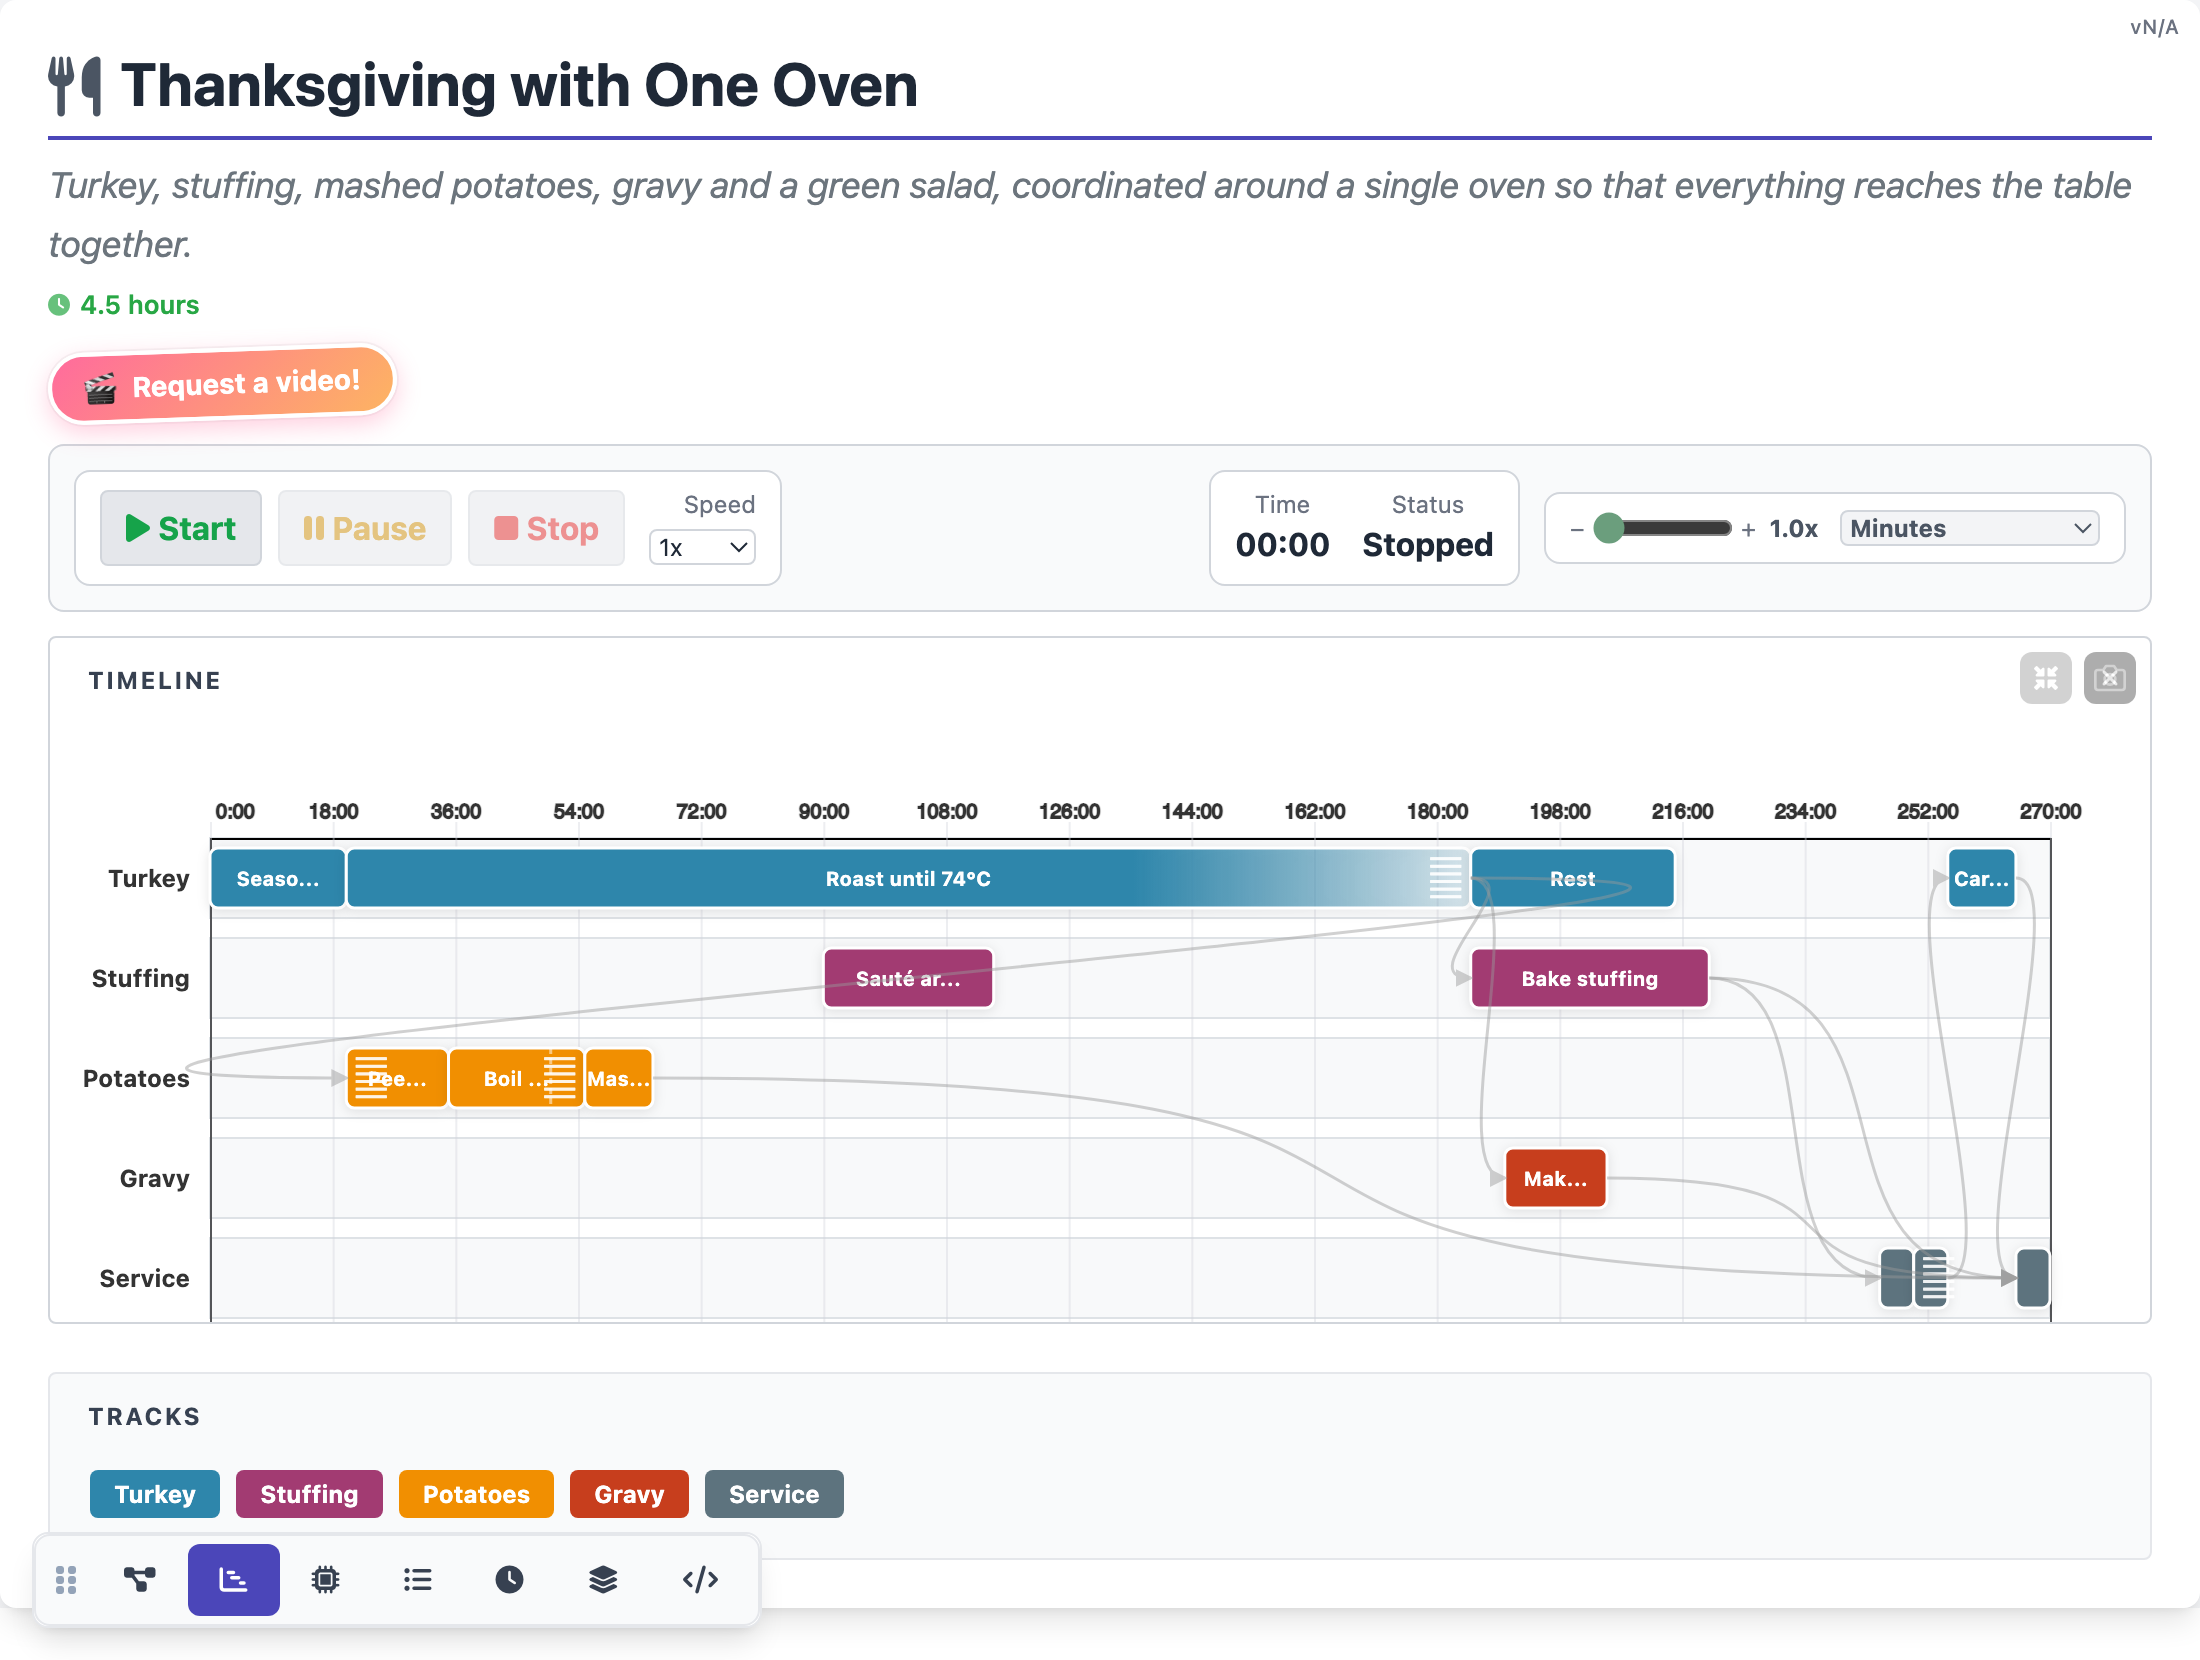
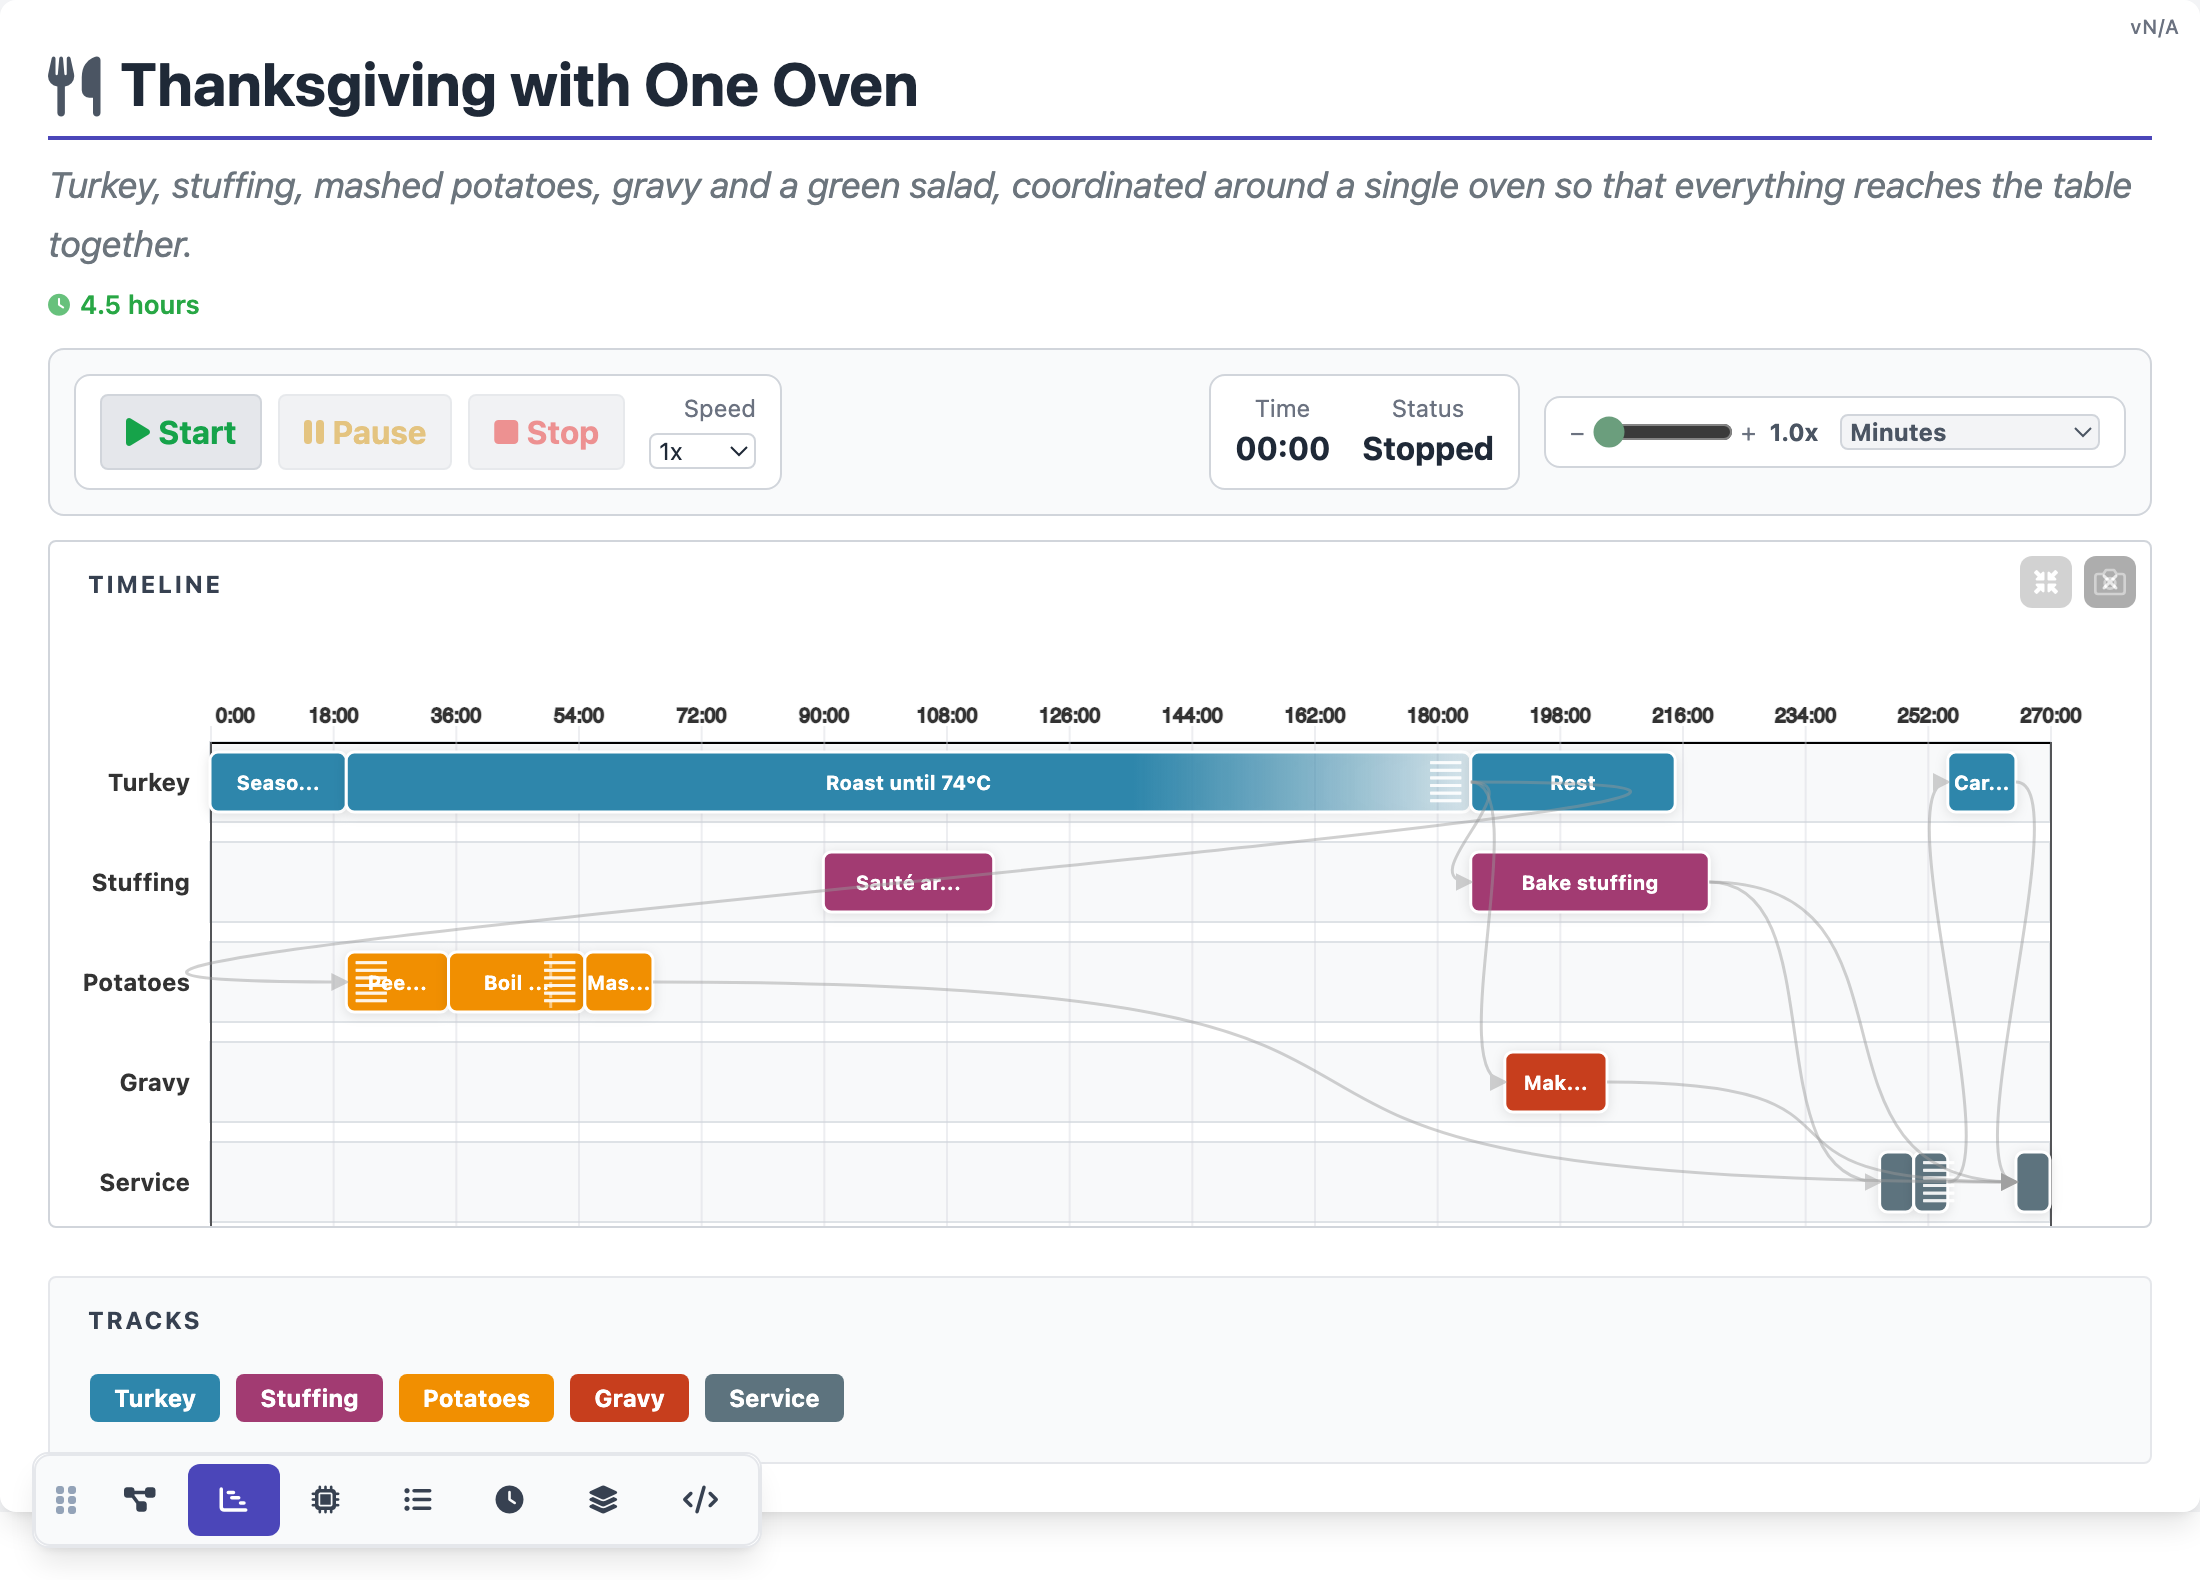
1.4.1: drop the server-only video sticker from the player; README merges the two SVG sections
renderTimeline only injects renderTimelineSvg's string into the DOM, so
showing a browser screenshot next to the SVG file was the same picture
twice. The player template is exported without the rhylthyme.com
'Request a video' sticker; the parity fixture strips it the same way.

Claude-Session: https://claude.ai/code/session_01TnBNYEcXAjSAa9URrzLk8q

diff --git a/player/template.html b/player/template.html
@@ -1934,10 +1934,6 @@
                     <span style="font-size:10px; color:white;">Change</span>
                 </div>
                 <button id="cover-photo-remove" style="display:none; position:absolute; top:-6px; right:-6px; width:20px; height:20px; border-radius:50%; background:#ef4444; color:white; border:none; cursor:pointer; font-size:11px; line-height:20px; text-align:center; padding:0;" title="Remove cover photo">&times;</button>
-                <button id="request-video-sticker-cover" type="button" onclick="requestRecipeVideo()" title="Request a cooking video for this recipe" class="rvs-on-cover">
-                    <span class="rvs-icon">🎬</span>
-                    <span class="rvs-label">Request a video!</span>
-                </button>
             </div>
             <div id="cover-photo-add-btn" class="rg-cover-add" style="display:none;">
                 <div class="rg-cover-add-icon"><i class="fas fa-camera-retro"></i></div>
@@ -1974,10 +1970,6 @@
                     <%=f'<span class="text-blue-600 font-semibold">· {program_duration_text}</span>' if program_duration_text else ''%>
                     <span id="target-duration-readonly" class="text-blue-500 font-semibold" style="display:<%='inline-flex' if target_duration_text else 'none'%>;align-items:center;gap:5px;">· Target: <span id="target-duration-readonly-text"><%=target_duration_text%></span><span id="target-over-warning" class="text-amber-500 cursor-help" title="Over target — try Fit to Time auto-plan in edit mode" style="display:<%='inline' if target_duration_seconds and total_duration > target_duration_seconds else 'none'%>;">&#9888;</span></span>
                 </div>
-                <button id="request-video-sticker" type="button" onclick="requestRecipeVideo()" title="Request a cooking video for this recipe">
-                    <span class="rvs-icon">🎬</span>
-                    <span class="rvs-label">Request a video!</span>
-                </button>
             </div>
         </div>
 

diff --git a/src/index.js b/src/index.js
@@ -1,5 +1,5 @@
 /*!
- * Rhylthyme timeline-render v1.4.0
+ * Rhylthyme timeline-render v1.4.1
  * (c) 2026 Rhylthyme contributors. Released under the Apache License 2.0.
  * Source: https://github.com/rhylthyme/rhylthyme-timeline
  *
@@ -629,7 +629,7 @@
   }
 
   return {
-    version: '1.4.0',
+    version: '1.4.1',
     // Program schema versions this engine understands; bumped in step
     // with the package's minor version when new trigger/duration forms
     // are added.

diff --git a/README.md b/README.md
@@ -11,7 +11,7 @@ turns that into resolved start and end times and draws them.
 
 ## What it produces
 
-Four outputs from the same engine, shown here for
+Three outputs from the same engine, shown here for
 [`thanksgiving_one_oven.json`](test/fixtures/programs/thanksgiving_one_oven.json).
 
 ### 1. The interactive player: `node player/build.js`
@@ -44,16 +44,17 @@ byte-identical to the server's (39 programs, sha256). Two things to know:
 the player keeps the server's own step placement, which puts a
 negative-offset step at the start of the step it refers to rather than
 where `computeStepTimings` puts it (unifying the two is on the roadmap),
-and the "Request a video" and "Switch kitchen" buttons message a parent
-window, so they do nothing when the file is opened on its own.
+and the "Switch kitchen" button messages a parent window, so it does
+nothing when the file is opened on its own.
 
-### 2. In the browser: `renderTimeline(container, program)`
+### 2. The static SVG: `renderTimelineSvg` (Node) and `renderTimeline` (browser)
 
-The JavaScript component draws straight into a DOM element. This is a
-Chrome screenshot of [`examples/index.html`](examples/index.html), which
-loads `src/index.js` and calls `renderTimeline`:
+One Gantt drawing, no dependencies. `renderTimelineSvg(program)` returns
+it as an SVG string; `renderTimeline(container, program)` is a two-line
+wrapper that calls the same function and sets the container's
+`innerHTML` to the result, so what a page shows is exactly this file:
 
-![renderTimeline output in Chrome: five tracks, an indefinite roast, a negative-offset dependency, a manual gate](docs/thanksgiving-browser.png)
+![renderTimelineSvg output](docs/thanksgiving.svg)
 
 Rows are tracks and bars are steps at their resolved times. The roast is
 *indefinite* (hatched): it ends when the cook says so, and everything after
@@ -63,31 +64,12 @@ dependencies; the dashed one is a negative offset ("peel the potatoes
 *manual* gate; "Serve" waits for all four dishes. The oven has capacity
 one, so the stuffing bakes only after the turkey comes out.
 
-Reproduce it by opening the demo page (no server or build needed):
-
-```bash
-git clone https://github.com/rhylthyme/rhylthyme-timeline
-cd rhylthyme-timeline
-open examples/index.html        # macOS; or xdg-open, or drag it into a browser
-```
-
-The page has a dropdown of six example programs and re-renders on change.
-`examples/programs.js` is those programs inlined so the page works from
-`file://`.
-
-### 3. From Node: `renderTimelineSvg(program)` → an SVG file
-
-The same drawing as a standalone SVG string, written by
-[`examples/render.js`](examples/render.js). This is the file it produced,
-[`docs/thanksgiving.svg`](docs/thanksgiving.svg):
-
-![renderTimelineSvg output as an SVG file](docs/thanksgiving.svg)
+From Node, [`examples/render.js`](examples/render.js) writes the file and
+prints every step's resolved start and end:
 
 ```bash
 node examples/render.js test/fixtures/programs/thanksgiving_one_oven.json thanksgiving.svg
 ```
-
-The script also prints every step's resolved start and end:
 
 ```
    0:00 –   20:00  Turkey: Season and truss
@@ -111,7 +93,11 @@ run any SVG converter, e.g. `rsvg-convert -w 1640 -f png -o out.png thanksgiving
 Point it at your own program JSON to render that instead; the
 [example corpus](test/fixtures/programs) has 39 more.
 
-### 4. Just the numbers: `computeStepTimings(program)`
+In a browser, open [`examples/index.html`](examples/index.html) (no server
+or build needed): it loads `src/index.js`, calls `renderTimeline`, and has
+a dropdown of six example programs.
+
+### 3. Just the numbers: `computeStepTimings(program)`
 
 What both renderers are drawn from (seconds from program start;
 `resolved` is `false` only for cycles or dangling references):

diff --git a/CHANGELOG.md b/CHANGELOG.md
@@ -3,6 +3,15 @@
 All notable changes to this package are documented here. The format follows
 Keep a Changelog; versions follow SemVer.
 
+## [1.4.1] - 2026-09-09
+
+### Changed
+- The player template no longer carries the rhylthyme.com "Request a
+  video" sticker (a server-side upsell); the export and the parity
+  fixture strip it together.
+- README: the static SVG is one section (`renderTimeline` only injects
+  `renderTimelineSvg`'s output into the DOM).
+
 ## [1.4.0] - 2026-09-09
 
 ### Added
